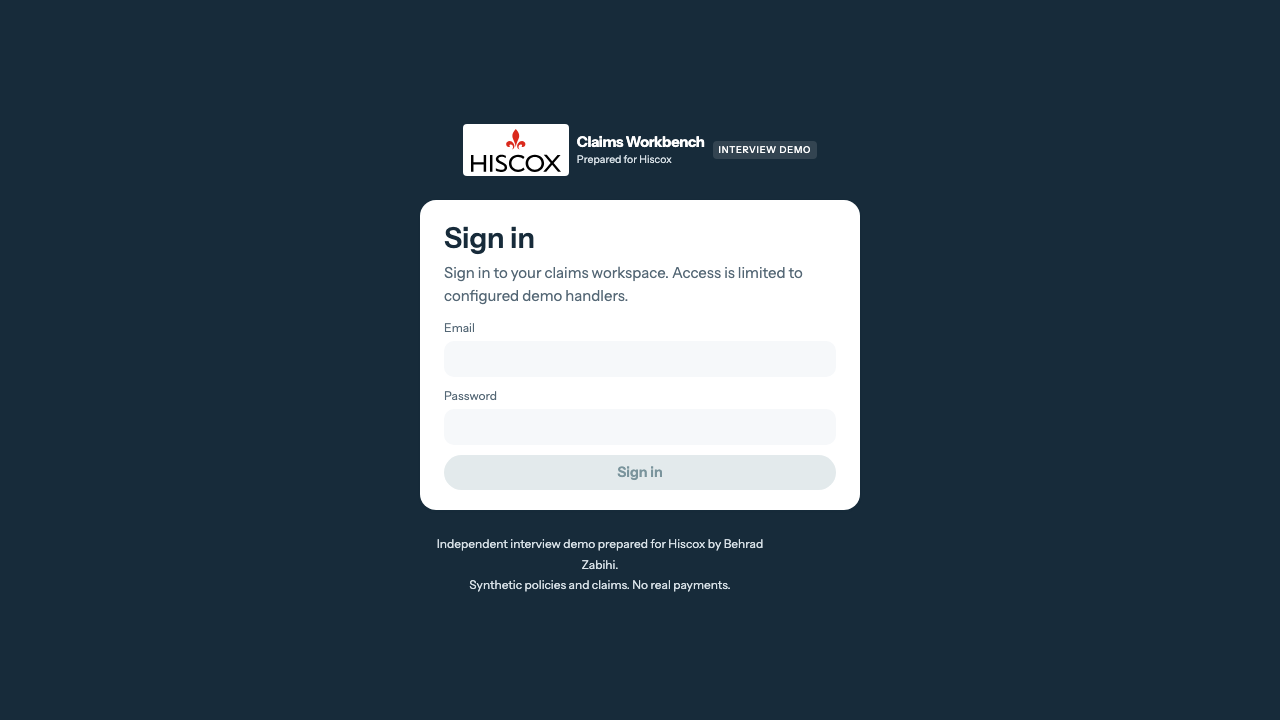
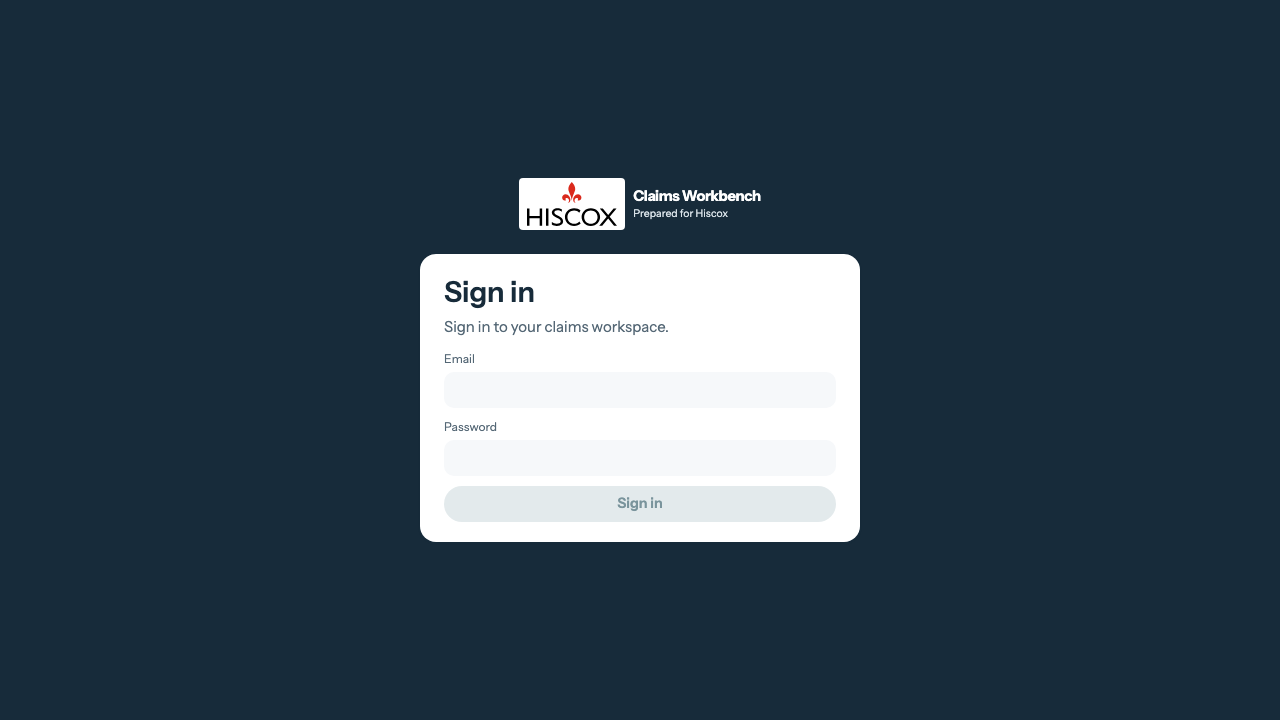
Remove demo labels and sign-in footer while preserving Hiscox branding

diff --git a/e2e/branding.spec.ts b/e2e/branding.spec.ts
@@ -15,8 +15,10 @@ test("the portfolio identity is clear on the workspace and sign-in page", async 
   await expect(page.locator(".brand-caption")).toHaveText(
     "Prepared for Hiscox",
   );
-  await expect(page.locator(".demo-badge")).toHaveText("Interview demo");
-  await expect(page).toHaveTitle("Hiscox | Claims Workbench Demo");
+  await expect(page.getByText("Interview demo", { exact: true })).toHaveCount(
+    0,
+  );
+  await expect(page).toHaveTitle("Hiscox | Claims Workbench");
   await expect(
     page.getByRole("heading", { name: "Claims queue" }),
   ).toBeVisible();
@@ -35,13 +37,23 @@ test("the portfolio identity is clear on the workspace and sign-in page", async 
     visitor.getByRole("img", { name: "Hiscox", exact: true }),
   ).toBeVisible();
   await expect(
+    visitor.getByText("Prepared for Hiscox", { exact: true }),
+  ).toBeVisible();
+  await expect(
+    visitor.getByRole("textbox", { name: "Email", exact: true }),
+  ).toBeVisible();
+  await expect(visitor.getByLabel("Password", { exact: true })).toBeVisible();
+  await expect(
+    visitor.getByText("Interview demo", { exact: true }),
+  ).toHaveCount(0);
+  await expect(
     visitor.getByText(
       "Independent interview demo prepared for Hiscox by Behrad Zabihi.",
     ),
-  ).toBeVisible();
+  ).toHaveCount(0);
   await expect(
     visitor.getByText("Synthetic policies and claims. No real payments."),
-  ).toBeVisible();
+  ).toHaveCount(0);
   await visitor.screenshot({
     path: testInfo.outputPath("sign-in.png"),
     fullPage: true,

diff --git a/dashboard/src/pages/SignInPage.tsx b/dashboard/src/pages/SignInPage.tsx
@@ -24,10 +24,7 @@ export function SignInPage() {
         <Brand />
       </p>
       <section className="panel sign-in-panel">
-        <PageHeader
-          title="Sign in"
-          lead="Sign in to your claims workspace. Access is limited to configured demo handlers."
-        />
+        <PageHeader title="Sign in" lead="Sign in to your claims workspace." />
         <ActionForm
           label="Sign in"
           ready={email !== "" && password !== ""}
@@ -57,11 +54,6 @@ export function SignInPage() {
           </label>
         </ActionForm>
       </section>
-      <p className="demo-disclaimer">
-        Independent interview demo prepared for Hiscox by Behrad Zabihi.
-        <br />
-        Synthetic policies and claims. No real payments.
-      </p>
     </main>
   );
 }

diff --git a/dashboard/index.html b/dashboard/index.html
@@ -3,10 +3,10 @@
   <head>
     <meta charset="UTF-8" />
     <meta name="viewport" content="width=device-width, initial-scale=1.0" />
-    <title>Hiscox | Claims Workbench Demo</title>
+    <title>Hiscox | Claims Workbench</title>
     <meta
       name="description"
-      content="An independent interview demo prepared for Hiscox by Behrad Zabihi: durable claims agents, auditable decisions, human approval and a handler copilot."
+      content="A claims workspace prepared for Hiscox: durable claims agents, auditable decisions, human approval and a handler copilot."
     />
     <link rel="icon" type="image/svg+xml" href="/favicon.svg" />
     <link rel="preconnect" href="https://fonts.googleapis.com" />

diff --git a/dashboard/src/styles.css b/dashboard/src/styles.css
@@ -2399,27 +2399,8 @@ fieldset.panel legend + * {
   font-weight: 400;
   color: var(--sea-mist);
 }
-.demo-badge {
-  border-radius: 4px;
-  background: rgb(255 255 255 / 0.12);
-  padding: 2px 6px;
-  font-size: 0.62rem;
-  font-weight: 500;
-  letter-spacing: 0.08em;
-  text-transform: uppercase;
-}
-.demo-disclaimer {
-  text-align: center;
-  color: var(--sea-mist);
-  font-size: 0.8rem;
-  line-height: 1.7;
-  max-width: 360px;
-}
 @media (max-width: 600px) {
   .brand {
     font-size: 1rem;
-  }
-  .demo-badge {
-    display: none;
   }
 }

diff --git a/dashboard/src/components/Brand.tsx b/dashboard/src/components/Brand.tsx
@@ -8,7 +8,6 @@ export function Brand() {
         <span className="brand-name">Claims Workbench</span>
         <span className="brand-caption">Prepared for Hiscox</span>
       </span>
-      <span className="demo-badge">Interview demo</span>
     </>
   );
 }

diff --git a/docs/VERIFICATION.md b/docs/VERIFICATION.md
@@ -24,7 +24,7 @@ Development dependency updates addressed inherited npm advisories. The `minimatc
 
 The screening prompt's regression contract is a standalone JSON fixture, so tests no longer require external notebooks. Container host validation has explicit allowed-host and denied-host tests. Screenshots were captured from the real dashboard against isolated test services and inspected visually.
 
-The Hiscox interview presentation uses the official logo as a local asset, with an independent-demo label. Browser checks verify the logo loads and the presentation fits phone and tablet widths in light and dark mode. The application identity, synthetic policy wording and repository remain generic.
+The Hiscox presentation uses the official logo as a local asset, with a Prepared for Hiscox caption. Browser checks verify the logo loads, the removed demo badge and footer stay absent, and the presentation fits phone and tablet widths in light and dark mode. The application identity, synthetic policy wording and repository remain generic.
 
 Existing Supabase accounts can be explicitly mapped to demo handler ids with `CLAIMS_HANDLER_EMAILS`. Regression tests verify that applying a mapping changes only the intended emails, preserves claims and roles, rejects unknown ids or invalid configuration, and still refuses invalid JWT signatures. Seeding uses the same mapping so it does not undo the setup. Both pytest and Playwright isolate these local overrides from test identities.
 

diff --git a/README.md b/README.md
@@ -6,7 +6,7 @@ An independent insurance claims platform with durable AI agents, human approval 
 
 The demo uses synthetic travel claims and illustrative policy wording. It is not affiliated with an insurer, makes no real payments and does not represent an insurer's underwriting rules.
 
-The website is currently presented as an **interview demo prepared for Hiscox**, with its official logo and a clear independent-demo label. The repository and underlying application remain Claims Workbench.
+The website uses Hiscox's official logo and a **Prepared for Hiscox** caption. The repository and underlying application remain Claims Workbench.
 
 ![Claims Workbench dashboard with the handler Copilot](docs/images/claims-queue.png)
 
